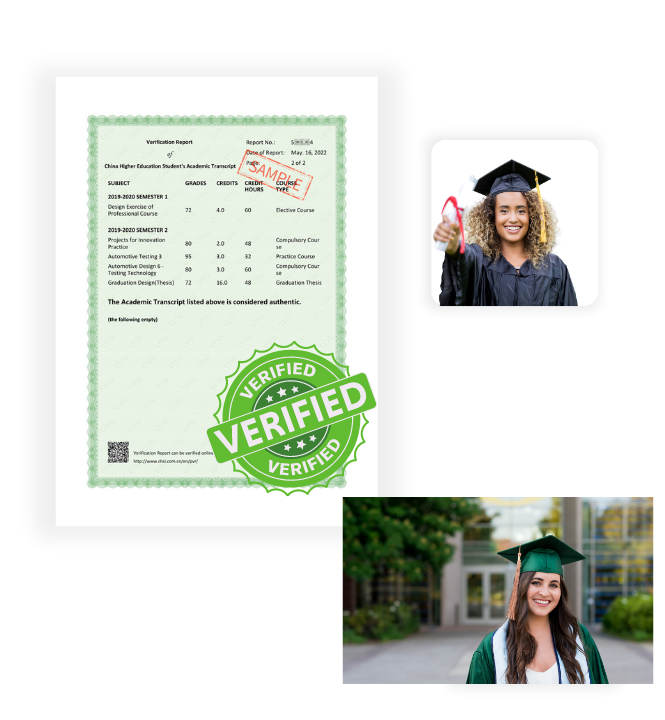
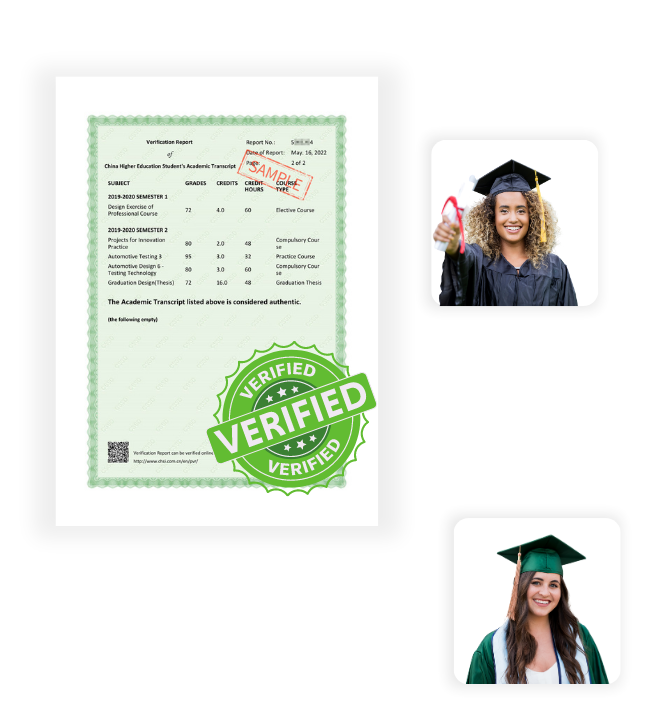
content update

Changed region(s): [[0.5113, 0.6722, 0.9925, 0.9472]]

diff --git a/_includes/V4NewLook/navbar.html b/_includes/V4NewLook/navbar.html
@@ -84,7 +84,7 @@
                                           <li class="nl-simple" aria-haspopup="true">
                                              <a href="https://go.certifyme.online/talk-with-expert?utm_source=google&utm_medium=solutions&utm_campaign=talk+to+us"
                                                 class="btn r-04 btn--theme hover--theme last-link"
-                                                style="text-align: center;">Talk to our Expert</a>
+                                                style="text-align: center;">TALK TO OUR EXPERT</a>
                                           </li>
                                        </ul>
                                     </div>
@@ -156,7 +156,7 @@
 
                               <!-- MEGAMENU LINKS -->
                               <ul class="col-md-12 col-lg-6 link-list">
-                                 <li><a href="/case-studies">Case Studies</a></li>
+                                 <li><a href="https://go.certifyme.online/case-studies">Case Studies</a></li>
                                  <!-- <li class="fst-li"><a href="https://go.certifyme.online/faq-digital-credentials">About Us</a></li> -->
                                  <li class="fst-li"><a href="/FAQ">FAQ</a></li>
                                  <li class="fst-li"><a href="/AboutUs">About Us</a></li>
@@ -166,7 +166,7 @@
                                  <li class="nl-simple" aria-haspopup="true">
                                     <a href="https://go.certifyme.online/talk-with-expert?utm_source=google&utm_medium=solutions&utm_campaign=talk+to+us"
                                        class="btn r-04 btn--theme hover--theme last-link"
-                                       style="text-align: center;">Talk to our Expert</a>
+                                       style="text-align: center;">TALK TO OUR EXPERT</a>
                                  </li>
                               </ul>
 

diff --git a/_includes/V4NewLook/InnerPages/hero.html b/_includes/V4NewLook/InnerPages/hero.html
@@ -36,7 +36,7 @@
                                 <p><span class="flaticon-minus"></span></p>
                             </li>
                             <li>
-                                <p>Cancel at anytime</p>
+                                <p>Cancel it anytime</p>
                             </li>
                             <li class="advantages-links-divider">
                                 <p><span class="flaticon-minus"></span></p>

diff --git a/whitelabel-credentials.md b/whitelabel-credentials.md
@@ -3,36 +3,50 @@ title: "Whitelabel Credentials"
 
 description: "Branded Whitelabel digital Credentials which suits the brand guidelines"
 
-layout: V2LayoutPages
+layout: V4LayoutInnerpages
 
-sitemap.priority : 0.9
-talktoexpertlink: "https://go.certifyme.online/talk-with-expert?utm_source=whitelabel-credentials&utm_medium=hero&utm_campaign=Talk+to+the+expert"
+sitemap.priority: 0.9
 
-talkToOurExpertLink: "https://go.certifyme.online/talk-with-expert?utm_source=whitelabel-credentials&utm_medium=review&utm_campaign=Talk+to+our+expert"
+# hero section
+HeroTitle: A Powerful White Labeling Solution to Showcase Brand Identity
+HeroText: Enjoy complete control over your digital credential visuals by opting for our premium white-labeled badges and certificates. Tailor credential navbar, footer, and header to match your taste.
 
-HeroImg: /assets3/images1/2.png
-Hero1Msg: Whitelabel Credentials for Complete Control 
-Hero2Msg: Over Digital Certificates
-Hero3Msg: Uplift your business visuals by white labeling badges and certificates to revamp the navbar, footer, and domain of the credentials where CertifyMe only acts as an issuing platform but the organization is advertised as the sole issuer. 
+BoxContentTitle: Maintain Brand Consistency All Over the Digital Credentials
+BoxContentText: Choose our white labeling plan to ensure a consistent brand appearance across all touchpoints of the credentialing process. From registration to issuing, your stakeholders will interact with a platform that reflects your unique brand identity. Experience complete freedom of customizing URL, page style, colors, fonts, header, and footer with CertifyMe.
+BoxImage: /assets4/images/Hero Images/Transcript.png
+
+#features section
+Feature1Image: /assets4/images/Digital Transcript/1.png
+Feature1Title: Credential Image that Learners Trust
+Feature1Text: White-labeled credentials build trust and credibility among your recipients, partners, and other organizations. Demonstrate your credentials with an authentic brand image to reinforce your brand reputation and your commitment to quality and professionalism.
+
+Feature2Image: /assets4/images/Digital Transcript/2.png
+Feature2Title: Seamless Integration
+Feature2Text: Our white labeling feature seamlessly integrates with your existing website or credentialing platform. Offer a cohesive journey to your recipients without disrupting their experience.
+
+Feature3Image: /assets4/images/Associations/3.png
+Feature3Title: Increased Audience Engagement
+Feature3Text: Unlock the full potential of your brand with CertifyMe's white labeling feature. Stand out from the competition, fully immerse your stakeholders in your brand, enhance engagement, and promote a sense of ownership. Deliver a consistent and branded experience to keep the audience engaged.
 
 
-1FeaturesImg: /assets3/images1/URL.png
-1FeaturesTitle: A Complete Rebranding Experience by URL WhiteLabeling
-1FeaturesMessage: Represent your company in the best way possible to your customers, not just by replacing our logo with yours, we go beyond that. Well, one way you can do this is by URL white labeling. But this is not the only way to white-label credentials. White labeling enables you to recreate your company environment with the freedom of personalizing the page style, colors, fonts, header, and footer. Communicate with your students through white labeling to establish a life-long relationship. It's also a great way to get more exposure for your company.
+#Feature4Image: /assets4/images/img-10.png
+Feature4Title: Seamless Integration of E-Certificates in LMSs
+Feature4Text: Automate your digital certificate delivery program by integrating us into your existing learning management systems following a no-code integration process. Effortlessly manage your recipient data without the worry of data theft.
+
+# /assets4/images/img-08.png
+Feature5Image:
+Feature5Title: Automated Credentials - 16x Less Time Required
+Feature5Text: Experience the ease of credential automation only with CertifyMe. Quick delivery and tracking of as many credentials as you issue. Don’t be in the dark anymore about the future of credentials offered by you - track them down whenever you want, wherever you want.<br> Integrate us into your learning management system (LMSs) for a simplified yet effective credential management solution.
 
 
+#G2 section
+G2Title: Global Leader in Digital Certificates & Badge Management
+ActionButtonAbovetext: Not sure about how to begin? Let us guide you in the right direction!
+ActionButtonbelowtext1: Free 50 Credentials
+ActionButtonbelowtext2: Exclusive Support
 
-2FeaturesImg: /assets3/images1/Logo.png
-2FeaturesTitle: Reflect Authentic Brand Image
-2FeaturesMessage:  Your certificates are a part of you and partnering with CertifyMe doesn’t take away from the authoritative experience that you want to show off, rather we streamline it. Make the certificate recipients feel like you are the certificate issuer and that no third party is involved in it. We make this possible by white labeling the digital certificates.
-
-3FeaturesImg: /assets3/images1/Footer.png
-3FeaturesTitle: Consistent Brand Appearance to be Proud of
-3FeaturesMessage: Our assistance doesn’t just end with helping you create and manage badges and certificates. We also work toward offering you a seamless certification experience that strengthens your brand value. Using the platform of CertifyMe, you can rebrand the page content and the emails recipients receive. We keep your information aligned professionally and attractively. This improves the overall look and feel of your credential verification page.
-
-4FeaturesImg: /assets3/images1/Email.png
-4FeaturesTitle: Premium Features at Reasonable Costs
-4FeaturesMessage: Along with catering to your product needs, we also guide you through the primary component that influences your buying decisions - the price. With a sense of security, you also feel a breath of fresh air coming across our service charges.  
+# testimonial section
+TestimonialTitle: Our Happy Customers  
 
 
 

diff --git a/credential-analytics.md b/credential-analytics.md
@@ -3,32 +3,50 @@ title: "Digital Credential Analytics"
 
 description: "Monitor, evaluate, and manage the effectiveness of credentialing by our badge analytics"
 
-layout: V2LayoutPages
+layout: V4LayoutInnerpages
 
-sitemap.priority : 0.9
-talktoexpertlink: "https://go.certifyme.online/talk-with-expert?utm_source=credential-analytics&utm_medium=hero&utm_campaign=Talk+to+the+expert"
+sitemap.priority: 0.9
 
-talkToOurExpertLink: "https://go.certifyme.online/talk-with-expert?utm_source=credential-analytics&utm_medium=review&utm_campaign=Talk+to+our+expert"
+# hero section
+HeroTitle: Data-Driven Insights To Monitor Your Credential Engagement
+HeroText: Advanced analytics of CertifyMe to understand and measure the level of recipient engagement with the awarded digital credentials.
 
-HeroImg: /assets3/images1/Analytics-1.png
-Hero1Msg: Explore How Your Digital 
-Hero2Msg: Certificates are Changing Lives
-Hero3Msg: Our three-level advanced analytics is critical for understanding and measuring the performance of your credentialing program and how your awardees are engaging with the program.
+BoxContentTitle: Comprehensive Reporting of Digital Certificate Performance
+BoxContentText: Receive comprehensive reports containing a detailed overview of your credentialing activities. Our reporting feature enables you to track key metrics, such as the number of credentials issued, earned, and downloaded.
+BoxImage: /assets4/images/Hero Images/Transcript.png
 
-1FeaturesImg: /assets3/images1/Analytics1.png
-1FeaturesTitle: A Complete 360° Analysis of Certification Curriculum
-1FeaturesMessage: Find out how your credentials are performing, how many you have awarded, the number of templates created, and who has checked your credentials and opened the mail or downloaded the certificate/badge. Our three-level analytics offers you insights that might also help you plan effective organizational activities. 
+#features section
+Feature1Image: /assets4/images/Digital Transcript/1.png
+Feature1Title: Real-time Data Visualization
+Feature1Text: Our intuitive and user-friendly dashboard presents your digital credentials data in real-time, allowing you to monitor the performance and progress of the credentialing programs effortlessly. Updated credentialing knowledge also enables you to take necessary steps for a higher level of credential engagement.
+
+Feature2Image: /assets4/images/Digital Transcript/2.png
+Feature2Title: Track Credential Engagement Metrics
+Feature2Text: Keep track of how recipients use your digital certificates and engage with them. Measure the success of your credentialing programs by tracking organizational, program and individual level metrics such as credential views, shares, sustainability, and click-through rates. Gain valuable insights into recipient engagement to improve impact and relevance of your credentials.
+
+#Feature3Image: /assets4/images/Associations/3.png
+Feature3Title: Increased Audience Engagement
+Feature3Text: Unlock the full potential of your brand with CertifyMe's white labeling feature. Stand out from the competition, fully immerse your stakeholders in your brand, enhance engagement, and promote a sense of ownership. Deliver a consistent and branded experience to keep the audience engaged.
 
 
-2FeaturesImg: /assets3/images1/Analytics 2.png
-2FeaturesTitle: Template Level Analytics
-2FeaturesMessage: Template Level Analytics refers to analytics performed at the credential template level. This allows for a better perception of how your awardees interact with the specific course, program, or event. It enables you to witness how many templates are transferred to other devices, how easy you have made the lives of your students, and the reflected outcome i.e. growing number of students and higher engagement with the certificates.
+#Feature4Image: /assets4/images/img-10.png
+Feature4Title: Seamless Integration of E-Certificates in LMSs
+Feature4Text: Automate your digital certificate delivery program by integrating us into your existing learning management systems following a no-code integration process. Effortlessly manage your recipient data without the worry of data theft.
+
+# /assets4/images/img-08.png
+Feature5Image:
+Feature5Title: Automated Credentials - 16x Less Time Required
+Feature5Text: Experience the ease of credential automation only with CertifyMe. Quick delivery and tracking of as many credentials as you issue. Don’t be in the dark anymore about the future of credentials offered by you - track them down whenever you want, wherever you want.<br> Integrate us into your learning management system (LMSs) for a simplified yet effective credential management solution.
 
 
-                   
-3FeaturesImg: /assets3/images1/Analytics 3.png
-3FeaturesTitle: Awardee Level Analytics
-3FeaturesMessage:  The awardee-level analytics feature provides the ability to view and analyze data at your awardee level. It unlocks essential information such as the length of the course, the skills and knowledge users have acquired, and the learning outcomes of the program. Keep guesswork aside and obtain solid evidence. 
+#G2 section
+G2Title: Global Leader in Digital Certificates & Badge Management
+ActionButtonAbovetext: Not sure about how to begin? Let us guide you in the right direction!
+ActionButtonbelowtext1: Free 50 Credentials
+ActionButtonbelowtext2: Exclusive Support
+
+# testimonial section
+TestimonialTitle: Our Happy Customers 
 
 
 ---

diff --git a/custom-badge-wallet.md b/custom-badge-wallet.md
@@ -3,32 +3,50 @@ title: "Custom digital Credential Wallet"
 
 description: "Store and access credentials securely in a custom wallet"
 
-layout: V2LayoutPages
+layout: V4LayoutInnerpages
 
-sitemap.priority : 0.9
-talktoexpertlink: "https://go.certifyme.online/talk-with-expert?utm_source=custom-wallet&utm_medium=hero&utm_campaign=Talk+to+the+expert"
+sitemap.priority: 0.9
 
-talkToOurExpertLink: "https://go.certifyme.online/talk-with-expert?utm_source=custom-wallet&utm_medium=review&utm_campaign=Talk+to+our+expert"
+# hero section
+HeroTitle: Custom Badge Wallet to Keep Your Digital Credentials in One Place
+HeroText: Present digital certificates professionally and memorably. Choose our custom badge wallet feature for easy storage of achievements.
 
-HeroImg: /assets3/images1/3.png
-Hero1Msg: Custom Badge Wallet to Keep All 
-Hero2Msg: Your Digital Credentials in One Place
-Hero3Msg: CertifyMe has come up with a new feature, a custom badge wallet that enables you and your awardees to access digital badges and certificates anytime, from anywhere.
+BoxContentTitle: Verify Portable Digital Certificates from Mobile Devices
+BoxContentText: The custom badge wallet feature simplifies digital credential storage. Recipients can collect certificates & badges in one place. The badge wallets are optimized for mobile devices, ensuring a seamless and responsive viewing experience for recipients.
+BoxImage: /assets4/images/Hero Images/Certificate.png
+
+#features section
+Feature1Image: /assets4/images/Digital certificates/1.png
+Feature1Title: Secured Wallets Using Custom Login ID and Password
+Feature1Text: Recipients can store their credentials in custom badge wallets to access them whenever they want. Protect the verifiable credentials using self-specified login details.
+
+Feature2Image: /assets4/images/Digital certificates/2.png
+Feature2Title: Store Multiple Credentials Under One Roof
+Feature2Text: Eliminate the stress of manually storing and handling credentials. Partner with CertifyMe to automatically collect all your e-credentials in the badge wallet without the risk of losing or misplacing them. The wallet URL customization option takes your credentialing program up a notch. Leave no stone unturned to reflect a trustworthy, and authentic brand appearance.
+
+#Feature3Image: /assets4/images/Digital certificates/3.png
+Feature3Title: Bulk Credentialing in A Tamper-proof Manner
+Feature3Text: Embrace the ease of online credentialing with CertifyMe. Press a single button and automatically send your certificates & badges to all recipients. Simplify the process of providing a ‘seal of approval’ to learners & members to progress their careers.
 
 
-1FeaturesImg: /assets3/images1/Wallet.png
-1FeaturesTitle: Portable Digital Certificates to Exhibit to the World
-1FeaturesMessage: The simple custom badge wallet feature of CertifyMe comes with an easy integration/setup procedure. The members associated with your organization who have bagged badges can access the credentials from the wallet to produce in front of other professionals, download them or just share them on social media. The wallet eliminates the hassle of scouring for credentials all over your mobile and is available a click away. 
+#Feature4Image: /assets4/images/Digital certificates/4.png
+Feature4Title: Seamless Integration of E-Certificates in LMSs
+Feature4Text: Automate your digital certificate delivery program by integrating us into your existing learning management systems following a no-code integration process. Effortlessly manage your recipient data without the worry of data theft.
 
 
-2FeaturesImg: /assets3/images1/Wallet 2.png
-2FeaturesTitle: Quick Access for Credential Authentication
-2FeaturesMessage: Let your awardees relax and free them from the hassle of carrying certificates when they need them. Empower certificate holders by organizing the credentials in our custom badge wallet. Learners can simply visit job locations without worrying about finding a spot where they can print them out or worse, forgetting it altogether.   
+#Feature5Image: /assets4/images/img-08.png
+Feature5Title: Automated Credentials - 16x Less Time Required
+Feature5Text: Experience the ease of credential automation only with CertifyMe. Quick delivery and tracking of as many credentials as you issue. Don’t be in the dark anymore about the future of credentials offered by you - track them down whenever you want, wherever you want.<br> Integrate us into your learning management system (LMSs) for a simplified yet effective credential management solution.
 
-                   
-3FeaturesImg: /assets3/images1/Wallet 3.png
-3FeaturesTitle: Secure Student Information Without Third-Party Association
-3FeaturesMessage:  Help students prove their expertise by being a part of our credible certification program. From enhanced brand awareness to improved business visibility, our digital credentials combine security with flexibility. Manage as many certificates as you want using a custom badge wallet without worrying about the experience of your students/employees. 
+
+#G2 section
+G2Title: Global Leader in Digital Certificates & Badge Management
+ActionButtonAbovetext: Not sure about how to begin? Let us guide you in the right direction!
+ActionButtonbelowtext1: Free 50 Credentials
+ActionButtonbelowtext2: Exclusive Support
+
+# testimonial section
+TestimonialTitle: Our Happy Customers 
 
 
 ---

diff --git a/digital-certificate.md b/digital-certificate.md
@@ -13,7 +13,7 @@ HeroText: CertifyMe offers unbeatable digital certificates that allow easy socia
 
 BoxContentTitle: White-Label Friendly Digital Certificates for Social Visibility
 BoxContentText: Whether you decide to design your e-certificates from scratch or choose a template from our template collection, you have the freedom to rebrand the certificate to match your brand look & feel. Ditch manual certificate creation & automate the credentialing process. Ensure your certificates attract the highest social impressions while also reflecting authentic brand image. Be visible online for organic boost in social engagement and learner enrollment.
-BoxImage: /assets4/images/Hero Images/Associations.png
+BoxImage: /assets4/images/Hero Images/Certificate.png
 
 #features section
 Feature1Image: /assets4/images/Digital certificates/1.png

diff --git a/digital-badges.md b/digital-badges.md
@@ -13,7 +13,7 @@ HeroText: Award Open Badge compliant progressive badges to motivate your learner
 
 BoxContentTitle: Freedom to Customize Digital Badges to Recognize Every Achievement
 BoxContentText: Appreciate the hard work and dedication of your learners and members while also keeping your brand under the limelight by designing verifiable, white label-friendly & tamper-proof e-badges. Create micro badges from scratch or choose a design from our large collection of badge templates.
-BoxImage: /assets4/images/Hero Images/Learning & Development.png
+BoxImage: /assets4/images/Hero Images/Badges.png
 
 #features section
 Feature1Image: /assets4/images/Digital Badges/1.png

diff --git a/digital-transcripts.md b/digital-transcripts.md
@@ -13,7 +13,7 @@ HeroText: Take your credentialing program to the next level by offering automate
 
 BoxContentTitle: Say NO to Lengthy, Tiring Credentialing Process
 BoxContentText: Eliminate tedious manual transcription - it’s time to welcome the smart, hassle-free, and automated credentialing solution. CertifyMe enables you to experience a certification process that takes 16 times less time. Let us handle your credentialing program and shift your focus to essentials.
-BoxImage: /assets4/images/Hero Images/Associations.png
+BoxImage: /assets4/images/Hero Images/Transcript.png
 
 #features section
 Feature1Image: /assets4/images/Digital Transcript/1.png
